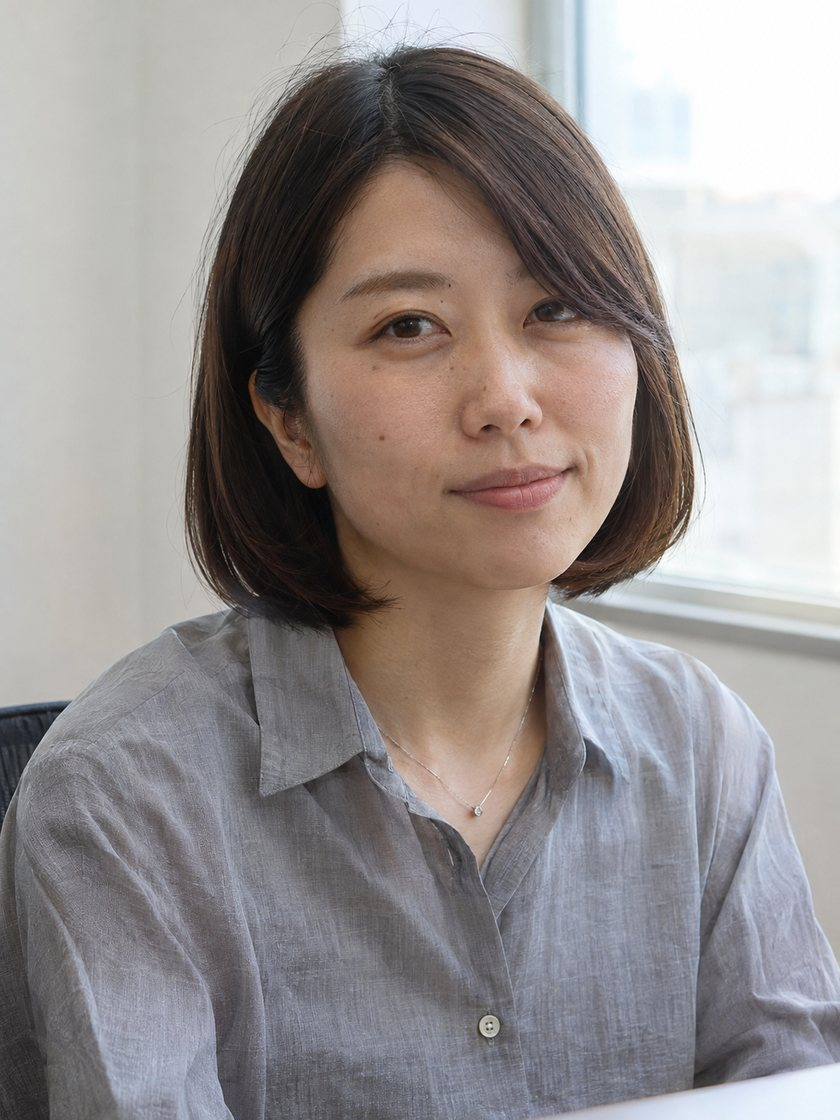
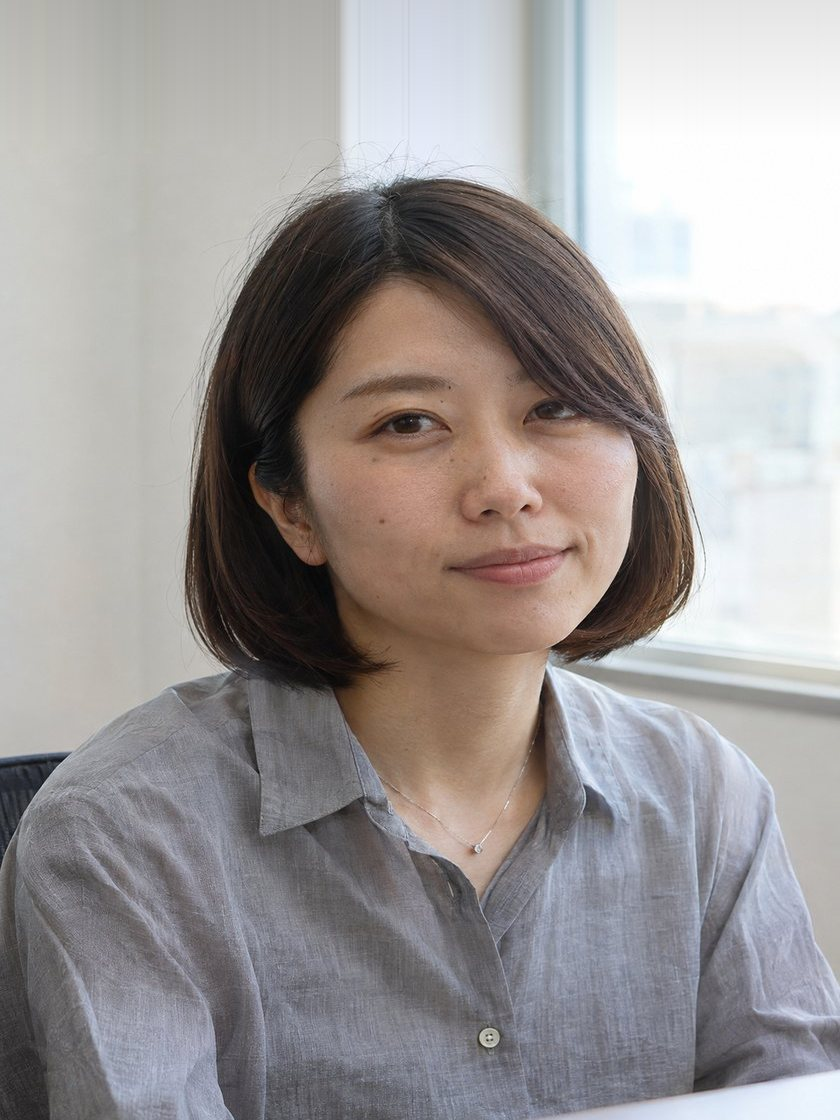
Adversarial review fixes: restore worry on return, name+face consistency on 404, sticky height 72->138px, remove copy contradiction, soften unenforceable promises, collapse FAQ, fix img dims, drop unused image

diff --git a/docs/index.html b/docs/index.html
@@ -16,7 +16,7 @@
 <section class="fv">
   <!-- 画像: AI生成の顔出し写真(2026-11-06 ユーザー判断)。?src=mina のとき mina_face.png に差し替え、無ければ riko_face.png -->
   <div class="fv-img">
-    <img id="face" src="img/riko_face.jpg" width="900" height="1200" alt="" loading="eager" decoding="async">
+    <img id="face" src="img/riko_face.jpg" width="840" height="1120" alt="" loading="eager" decoding="async">
   </div>
   <div class="wrap">
     <div class="fv-card">
@@ -117,7 +117,9 @@
       </thead>
       <tbody>
         <tr><th scope="row">求人の探し方</th><td><span class="x">△</span><span class="sub">条件で絞って自分で選ぶ</span></td><td><span class="o">○</span><span class="sub">条件の裏側（休日の数え方・残業の実態）から一緒に絞る</span></td></tr>
-        <tr><th scope="row">休日・残業・離職率</th><td><span class="x">△</span><span class="sub">書き方で分からない、見落としやすい、求人票には載っていない</span></td><td><span class="o">○</span><span class="sub">書き方から読み分けて、必ず確認する。調べ方を使って確かめる</span></td></tr>
+        <!-- 2026-11-06 修正: 離職率はこの表の1スクロール前で「自分で確かめられる」と明言済み。
+             ここで△にすると、売るために前言を撤回したように読める。離職率を行から外した -->
+        <tr><th scope="row">休日・残業の実態</th><td><span class="x">△</span><span class="sub">書き方で分からない、見落としやすい</span></td><td><span class="o">○</span><span class="sub">書き方から読み分けて、必ず確認する。調べ方を使って確かめる</span></td></tr>
         <tr><th scope="row">職務経歴書</th><td><span class="x">△</span><span class="sub">テンプレを探して自分で書く</span></td><td><span class="o">○</span><span class="sub">書いたものを見て直す</span></td></tr>
         <tr><th scope="row">面接の日程調整</th><td><span class="x">△</span><span class="sub">自分で会社に連絡する</span></td><td><span class="o">○</span><span class="sub">代わりに調整する</span></td></tr>
         <tr><th scope="row">辞め方・引き継ぎ</th><td><span class="x">△</span><span class="sub">調べて自分で判断する</span></td><td><span class="o">○</span><span class="sub">順番を一緒に決める</span></td></tr>
@@ -134,13 +136,20 @@
 <!-- ============ 5 登録後に届くもの ============ -->
 <section id="inbox">
   <div class="wrap">
-    <h2>登録したら、これが届きます</h2>
-    <p>押したあとに何が起きるか、先に全部見せます。</p>
+    <!-- 2026-11-06 修正: 「これ」を指す実機スクショが未撮影のため、見出しも実態に合わせた。
+         撮影後に「登録したら、これが届きます」へ戻すこと -->
+    <h2>登録したあとに起きること</h2>
+    <!-- 2026-11-06 修正: 実機スクショ3枚が未撮影の状態で「全部見せます」と書くと、
+         本文がこのページで唯一の嘘になる。スクショが入るまでは実態に合わせた文言にする。
+         撮影後に「押したあとに何が起きるか、先に全部見せます。」へ戻すこと -->
+    <p>押したあとに何が起きるかを、順番に書いておきます。</p>
     <p class="flow"><span>①届く</span><span>②送る・書く</span><span>③返ってくる</span></p>
     <!-- IMG(実機スクショ): 1通目トーク画面 / 求人票を送っている画面 / 返ってきた画面。実機LINEで撮影、AI生成・合成は禁止。img/line_1.png line_2.png line_3.png -->
     <ul class="checks">
       <li>トークの内容は、他の人には見えません</li>
-      <li>名前はLINEの表示名のままでOK。本名を入れる場所はありません</li>
+      <!-- 2026-11-06 修正: フッターの提供項目に「氏名」があるため、無条件の断定は矛盾する。
+           相談の段階に限定して射程を狭めた -->
+      <li>名前はLINEの表示名のままでOK。相談の段階で本名を入れる場所はありません</li>
       <li>返信しなくても、届いたものは読めます</li>
       <li>見てもらったあと、応募しなくていいです</li>
     </ul>
@@ -195,22 +204,22 @@
 <section id="faq">
   <div class="wrap faq">
     <h2>よくある質問</h2>
-    <details open><summary>Q 今の会社にバレませんか？</summary><div class="a">A こちらから今の会社へ連絡することはありません。連絡はLINEのみです。</div></details>
-    <details open><summary>Q まだ辞めると決めていなくても大丈夫ですか？</summary><div class="a">A 決まっていない人のほうが多いです。聞くだけで終わってかまいません。</div></details>
-    <details open><summary>Q 相談だけでもいいですか？</summary><div class="a">A はい。求人を見ずに終わっても問題ありません。</div></details>
-    <details open><summary>Q 応募していない求人でもいいですか？</summary><div class="a">A その方が多いです。応募前のほうが選び直せます。</div></details>
-    <details open><summary>Q 他社のエージェント経由の求人でもいいですか？</summary><div class="a">A 見るだけなら問題ありません。応募の進め方は、そのエージェントの流れを優先してください。</div></details>
-    <details open><summary>Q 見てもらったら、応募しなきゃダメですか？</summary><div class="a">A 不要です。見た結果、やめた人もいます。</div></details>
-    <details open><summary>Q スクショでもいいですか？</summary><div class="a">A スクショでもURLでも、会社名だけでも見られます。</div></details>
-    <details open><summary>Q 何件まで見てもらえますか？</summary><div class="a">A 件数の上限は決めていません。1件でも、3件並べてでも大丈夫です。</div></details>
-    <details open><summary>Q しつこく連絡が来ませんか？</summary><div class="a">A 返信がなければ追いかけません。配信を止めたいときは「停止」と送ってください。</div></details>
-    <details open><summary>Q 本当に無料ですか？</summary><div class="a">A 無料です。採用が決まったときに、企業側から紹介手数料をいただく仕組みです。</div></details>
-    <details open><summary>Q 電話がかかってきますか？</summary><div class="a">A まずLINEのテキストです。電話で話したい方は、つながりやすい時間帯を教えてください。</div></details>
-    <details open><summary>Q 何を準備すればいいですか？</summary><div class="a">A 何もいりません。職務経歴書は、なければ一緒に作ります。</div></details>
-    <details open><summary>Q オンラインで話すとき、どんな格好ですか？</summary><div class="a">A 部屋着でもスッピンでも平気です。カメラを切ったままでもできます。</div></details>
-    <details open><summary>Q 高卒・フリーターでも対象ですか？</summary><div class="a">A 対象です。経歴を先に整えてから来る必要はありません。</div></details>
-    <details open><summary>Q 送るときに個人情報はいりますか？</summary><div class="a">A 求人票を見るだけなら不要です。お仕事のご紹介に進みたいときに、送り先をうかがいます。</div></details>
-    <details open><summary>Q 入力した情報はどこへ行きますか？</summary><div class="a">A お仕事のご紹介のため、提携する人材紹介会社へ提供します。提供をご希望されない場合はLINEでお知らせください。その場合もご相談のみ承ります。</div></details>
+    <details open><summary>Q 今の会社にバレませんか？</summary><div class="a">A 当社および提携先から、今の会社へ連絡することはありません。連絡はLINEのみです。</div></details>
+    <details><summary>Q まだ辞めると決めていなくても大丈夫ですか？</summary><div class="a">A 決まっていない人のほうが多いです。聞くだけで終わってかまいません。</div></details>
+    <details><summary>Q 相談だけでもいいですか？</summary><div class="a">A はい。求人を見ずに終わっても問題ありません。</div></details>
+    <details><summary>Q 応募していない求人でもいいですか？</summary><div class="a">A その方が多いです。応募前のほうが選び直せます。</div></details>
+    <details><summary>Q 他社のエージェント経由の求人でもいいですか？</summary><div class="a">A 見るだけなら問題ありません。応募の進め方は、そのエージェントの流れを優先してください。</div></details>
+    <details><summary>Q 見てもらったら、応募しなきゃダメですか？</summary><div class="a">A 不要です。見た結果、やめた人もいます。</div></details>
+    <details><summary>Q スクショでもいいですか？</summary><div class="a">A スクショでもURLでも、会社名だけでも見られます。</div></details>
+    <details><summary>Q 何件まで見てもらえますか？</summary><div class="a">A いまのところ上限は設けていません。1件でも、3件並べてでも大丈夫です。</div></details>
+    <details><summary>Q しつこく連絡が来ませんか？</summary><div class="a">A 個別の電話や催促はしません。お知らせの配信は自動で届きます。止めたいときは「停止」と送ってください。</div></details>
+    <details><summary>Q 本当に無料ですか？</summary><div class="a">A 無料です。採用が決まったときに、企業側から紹介手数料をいただく仕組みです。</div></details>
+    <details><summary>Q 電話がかかってきますか？</summary><div class="a">A まずLINEのテキストです。電話で話したい方は、つながりやすい時間帯を教えてください。</div></details>
+    <details><summary>Q 何を準備すればいいですか？</summary><div class="a">A 何もいりません。職務経歴書は、なければ一緒に作ります。</div></details>
+    <details><summary>Q オンラインで話すとき、どんな格好ですか？</summary><div class="a">A 部屋着でもスッピンでも平気です。カメラを切ったままでもできます。</div></details>
+    <details><summary>Q 高卒・フリーターでも対象ですか？</summary><div class="a">A 対象です。経歴を先に整えてから来る必要はありません。</div></details>
+    <details><summary>Q 送るときに個人情報はいりますか？</summary><div class="a">A 求人票を見るだけなら不要です。お仕事のご紹介に進みたいときに、送り先をうかがいます。</div></details>
+    <details><summary>Q 入力した情報はどこへ行きますか？</summary><div class="a">A お仕事のご紹介のため、提携する人材紹介会社へ提供します。提供をご希望されない場合はLINEでお知らせください。その場合もご相談のみ承ります。</div></details>
   </div>
 </section>
 
@@ -229,9 +238,13 @@
       <h3>今日はまだ、という人へ</h3>
       <p>いま決めなくていいです。</p>
       <ul class="links">
-        <!-- リンク先URLは未確定(要確認) -->
-        <li><a href="#">この話をしたリールを見る</a></li>
-        <li><a href="#"><span data-name>りこ</span>のプロフィールを見る</a></li>
+        <!-- 要確認: リールURL・プロフィールURLが確定するまでリンク化しない。
+             href="#" のままにすると、押しても何も起きない行き止まりになり、
+             「今日は登録しない人の出口」として機能しないため。
+             URL確定後は <a href="https://www.instagram.com/..."> に差し替える。
+             出口リンクには data-cta を付けないこと（?src=&worry= がInstagram側で無意味なクエリになる） -->
+        <li>この話をしたリール（Instagram ※リンク準備中）</li>
+        <li><span data-name>りこ</span>のプロフィール（Instagram ※リンク準備中）</li>
       </ul>
       <a class="cta-sub" href="#" data-cta>チェックシートだけ受け取る</a>
       <p class="note">辞める前にやること／求人票の見方チェックシート（読むだけ・返信なしでOK）</p>
@@ -286,7 +299,15 @@
   function swap(id, file, fallback) {
     var img = document.getElementById(id);
     if (!img || who === 'riko') return;
-    img.onerror = function () { img.onerror = null; img.src = fallback; };
+    // 2026-11-06 修正(深刻度1): 画像だけ差し戻すと「みな」と名乗りながら「りこ」の顔が出る。
+    // 担当者の顔と名前が食い違うのは信頼の根幹が崩れるので、顔が戻るなら名前も戻す。
+    img.onerror = function () {
+      img.onerror = null;
+      img.src = fallback;
+      var ns = document.querySelectorAll('[data-name]');
+      for (var m = 0; m < ns.length; m++) ns[m].textContent = 'りこ';
+      img.setAttribute('alt', 'りこ');
+    };
     img.src = file;
   }
   swap('face', 'img/mina_face.jpg', 'img/riko_face.jpg');
@@ -297,7 +318,8 @@
   // ---- hidden input と CTA href への引き継ぎ ----
   var form = document.getElementById('lp-params');
   var links = document.querySelectorAll('a[data-cta]');
-  var selected = '';
+  // URLに worry があれば復元する（戻る・リロードで選択が消えないように）
+  var selected = q.get('worry') || '';
 
   function apply() {
     form.elements['src'].value = src;
@@ -323,6 +345,17 @@
       selected = this.getAttribute('data-worry');
       apply();
     });
+  }
+  // 2026-11-06 修正(深刻度1): CTAを押す→戻る/リロードで、選んだ悩みが消えていた。
+  // JSは起動時に ?src= しか読まず ?worry= を読み戻さないため、選択が初期化されていた。
+  // FVの「選ばせて心理的ハードルを下げる」設計が、押した瞬間に無に帰す状態だった。
+  if (selected) {
+    for (var k = 0; k < buttons.length; k++) {
+      if (buttons[k].getAttribute('data-worry') === selected) {
+        buttons[k].setAttribute('aria-pressed', 'true');
+        break;
+      }
+    }
   }
   apply();
 

diff --git a/docs/style.css b/docs/style.css
@@ -23,9 +23,11 @@
   --radius-pill: 999px;
   --gutter: 16px;           /* 全23社が左右16px前後 */
   --maxw: 420px;
-  --sticky-h: 72px;         /* 追従バーの高さ。本文末尾の余白に使う */
+  /* 2026-11-06 修正(深刻度2): 宣言72pxに対し実測138px。差の50pxでfooter最終行
+     （許可番号の確認先＝法務上もっとも隠してはいけない行）が追従バーに隠れていた */
+  --sticky-h: 138px;
 
-  --fs-fv: 28px;
+  --fs-fv: 25px;
   --fs-h2: 22px;
   --fs-body: 15px;
   --fs-note: 11px;
@@ -47,7 +49,7 @@ body {
   font-size: var(--fs-body);
   line-height: 1.75;        /* 日本語は1.7以上でないと詰まって見える */
   -webkit-text-size-adjust: 100%;
-  padding-bottom: calc(var(--sticky-h) + 16px); /* 追従バーに隠れない */
+  padding-bottom: calc(var(--sticky-h) + 16px + env(safe-area-inset-bottom)); /* 追従バー+iOSのホームバー分 */
 }
 
 img { max-width: 100%; height: auto; display: block; }
@@ -157,7 +159,7 @@ p { margin: 0 0 14px; }
 
 /* LINE風チャット（C12 FV型 + C9の登録後プレビュー型） */
 /* 採点#5対応: 水色#7a9fc4は紺・生成りの2色設計から浮くため、アクセントの明度違いに寄せた */
-.talk { background: #3d5173; border-radius: var(--radius); padding: 14px 12px; }
+.talk { background: #3d5173; border-radius: var(--radius); padding: 11px 10px; }
 .talk .bubble {
   background: #fff; border-radius: 14px; padding: 10px 13px;
   font-size: 14px; line-height: 1.6; display: inline-block;
@@ -167,7 +169,7 @@ p { margin: 0 0 14px; }
 .talk .time { font-size: 10px; color: rgba(255,255,255,.85); }
 
 /* 悩みタップ（FVの入口。「相談」は決断、「選択」は決断でない） */
-.pick { display: flex; flex-direction: column; gap: 8px; margin-top: 10px; }
+.pick { display: flex; flex-direction: column; gap: 6px; margin-top: 8px; }
 .pick button {
   width: 100%; text-align: left; padding: 13px 14px;
   border: 2px solid #fff; border-radius: var(--radius-pill);
@@ -216,9 +218,10 @@ p { margin: 0 0 14px; }
 /* 採点5周目#2対応: 3/4(520px)だと5択が1つも初見に入らず「入口が見えないFV」になっていた。
    1/1(390px)に縮めて、見出し→吹き出し→ボタン上部までを844px内に収める */
 /* 採点8周目#3対応: 顔写真を主役から降ろし、会話を主役にする */
-.fv-img { width: 100%; aspect-ratio: 16 / 10; background: var(--bg-soft); overflow: hidden; }
-.fv-img img { width: 100%; height: 100%; object-fit: cover; object-position: center 15%; }
-.fv-card { background: #fff; border-radius: var(--radius); margin-top: -28px; position: relative; padding: 18px 14px 16px; box-shadow: 0 2px 12px rgba(0,0,0,.08); }
+/* ブラインド採点対応: CTAが初見(844px)に入らなかったため16/7まで圧縮 */
+.fv-img { width: 100%; aspect-ratio: 16 / 7; background: var(--bg-soft); overflow: hidden; }
+.fv-img img { width: 100%; height: 100%; object-fit: cover; object-position: center 12%; }
+.fv-card { background: #fff; border-radius: var(--radius); margin-top: -28px; position: relative; padding: 14px 14px 14px; box-shadow: 0 2px 12px rgba(0,0,0,.08); }
 .pill { display: inline-block; font-size: 12px; font-weight: 700; padding: 3px 12px; border: 1px solid var(--accent); border-radius: var(--radius-pill); color: var(--accent); margin: 0 0 10px; }
 .fv h1 { font-size: var(--fs-fv); line-height: 1.4; margin: 0 0 8px; font-weight: 800; }
 .fv .lead-sub { font-size: 14px; color: var(--fg-sub); margin: 0 0 10px; }
